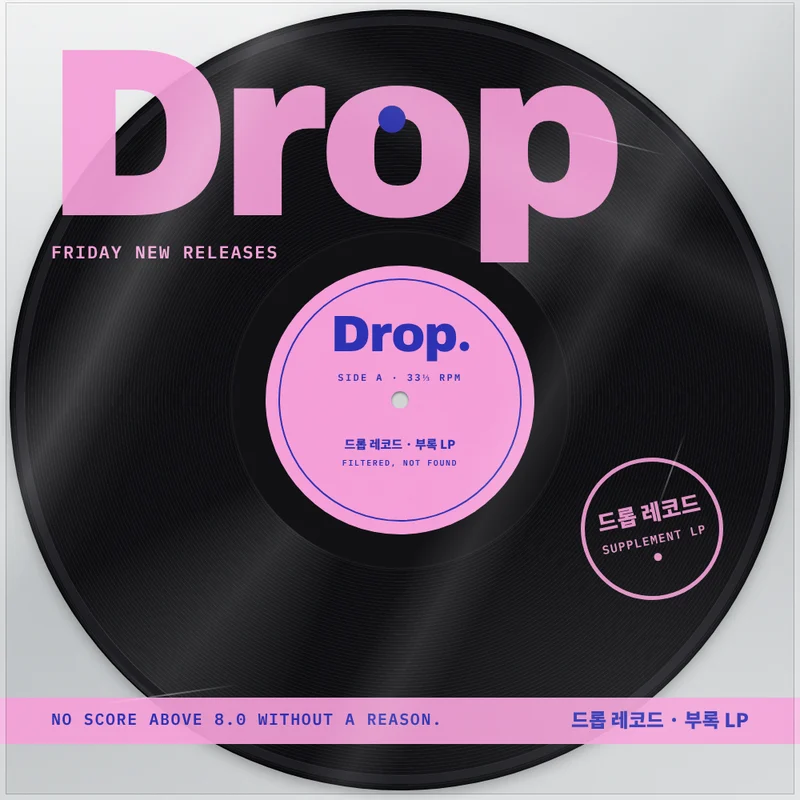
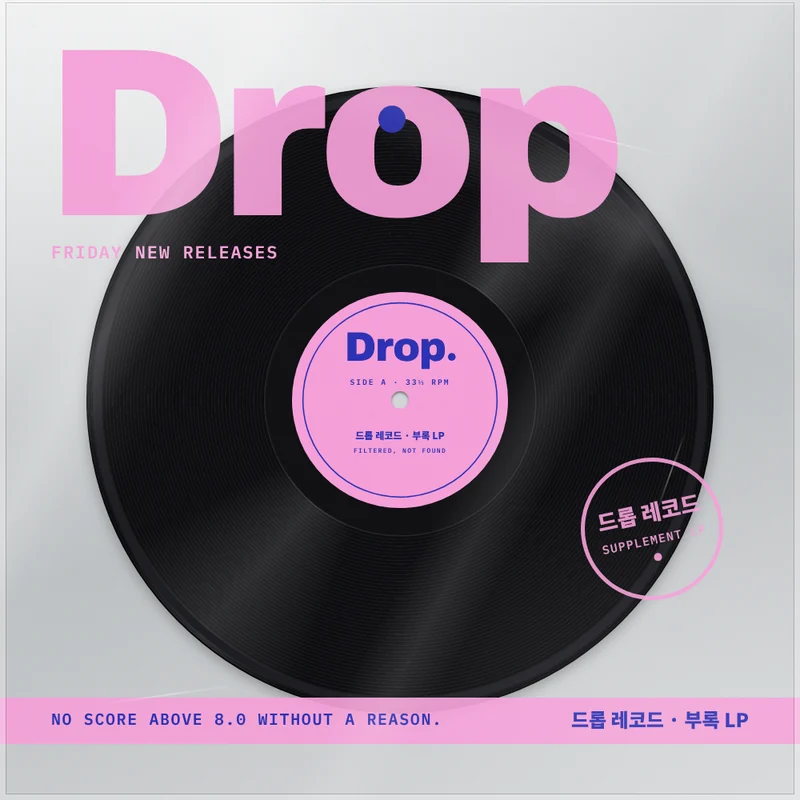
MAG: 부록 LP 커버 속 판을 작게(비율 유지)
Claude-Session: https://claude.ai/code/session_016AQsQaxvrnr7CjSnaYCHYt

diff --git a/scripts/mag-sleeves.html b/scripts/mag-sleeves.html
@@ -9,15 +9,16 @@ html,body{width:1000px;height:1000px;overflow:hidden;background:transparent}
   radial-gradient(140% 90% at 20% 0%,rgba(255,255,255,.55),transparent 60%),
   linear-gradient(160deg,#e3e5e6,#b9bdc0 55%,#d6d8da)}
 /* 판 */
-.rec{position:absolute;left:14px;top:14px;width:972px;height:972px;border-radius:50%;
+.rec{position:absolute;left:110px;top:110px;width:780px;height:780px;border-radius:50%;
   background:
    conic-gradient(from 20deg,rgba(255,255,255,0) 0deg,rgba(255,255,255,.16) 18deg,rgba(255,255,255,0) 40deg,rgba(255,255,255,0) 180deg,rgba(255,255,255,.12) 200deg,rgba(255,255,255,0) 222deg),
    repeating-radial-gradient(circle at 50% 50%,#0d0d10 0 2px,#16161a 2px 3.2px,#0b0b0d 3.2px 4.4px),
    #0c0c0f;
   box-shadow:0 0 0 2px #050506,0 6px 18px rgba(0,0,0,.35)}
 .rec::after{content:"";position:absolute;inset:6px;border-radius:50%;box-shadow:inset 0 0 0 10px #1c1c21,inset 0 0 0 11px rgba(255,255,255,.08)}
-.run{position:absolute;left:50%;top:50%;width:420px;height:420px;margin:-210px 0 0 -210px;border-radius:50%;background:#101013;box-shadow:0 0 0 2px rgba(255,255,255,.06)}
-.lab{position:absolute;left:50%;top:50%;width:336px;height:336px;margin:-168px 0 0 -168px;border-radius:50%;overflow:hidden}
+.run{position:absolute;left:50%;top:50%;width:337px;height:337px;margin:-168.5px 0 0 -168.5px;border-radius:50%;background:#101013;box-shadow:0 0 0 2px rgba(255,255,255,.06)}
+.lab{position:absolute;left:50%;top:50%;width:270px;height:270px;margin:-135px 0 0 -135px;border-radius:50%;overflow:hidden}
+.lab>.in{position:absolute;left:0;top:0;width:336px;height:336px;transform:scale(.8036);transform-origin:0 0}
 .hole{position:absolute;left:50%;top:50%;width:22px;height:22px;margin:-11px 0 0 -11px;border-radius:50%;background:#cfd2d4;box-shadow:inset 0 2px 3px rgba(0,0,0,.5)}
 /* 비닐(PVC) 겉면 */
 .pvc{position:absolute;inset:0;pointer-events:none;
@@ -107,7 +108,7 @@ function print() {
     <div class="ink kr" style="right:60px;bottom:58px;text-align:right;font-size:30px;color:${C1};line-height:1.3">사이퍼 미디어<br><span class="mono" style="font-size:16px;color:#b0201e">SUPPLEMENT LP</span></div>
     <div class="ink mono" style="left:60px;bottom:60px;font-size:16px;color:#141414;line-height:1.6">01 / 08<br>NEXT IN THE CIRCLE</div>`; }
   return `
-    <div class="ink" style="left:14px;top:14px;width:972px;height:972px;border-radius:50%;background:conic-gradient(${C1} 0 120deg,transparent 120deg);opacity:.62"></div>
+    <div class="ink" style="left:110px;top:110px;width:780px;height:780px;border-radius:50%;background:conic-gradient(${C1} 0 120deg,transparent 120deg);opacity:.62"></div>
     <div class="ink" style="left:54px;top:30px;font:250px/1 'Archivo Black';color:#fff;letter-spacing:-.05em;opacity:.95">33⅓</div>
     <div class="ink mono" style="left:62px;top:280px;font-size:21px;color:#fff;opacity:.9">${SIG.day}</div>
     <div class="ink" style="left:0;right:0;bottom:0;height:150px;background:${C2};opacity:.82"></div>
@@ -119,7 +120,7 @@ if (part === 'label') {
   document.body.classList.add('L');
   S.innerHTML = `<div style="position:absolute;inset:0;border-radius:50%;overflow:hidden"><div style="position:absolute;left:50%;top:50%;width:336px;height:336px;margin:-168px 0 0 -168px;transform:scale(${600 / 336})">${label(336)}</div></div>`;
 } else {
-  S.innerHTML = `<div class="rec"><div class="run"></div><div class="lab">${label(336)}</div><div class="hole"></div></div>
+  S.innerHTML = `<div class="rec"><div class="run"></div><div class="lab"><div class="in">${label(336)}</div></div><div class="hole"></div></div>
    ${print()}<div class="grain"></div><div class="pvc"></div>
    <i class="crk" style="left:120px;top:880px;width:180px;transform:rotate(-8deg)"></i><i class="crk" style="left:700px;top:160px;width:140px;transform:rotate(14deg)"></i><i class="crk" style="left:820px;top:640px;width:110px;transform:rotate(-70deg)"></i>
    <div class="seam"></div>`;

diff --git a/public/sw.js b/public/sw.js
@@ -4,7 +4,7 @@
 // - 설치할 때 모든 앱 화면을 미리 받아 둔다. 한 번도 안 연 앱도 오프라인에서 열린다
 // - 글꼴·jsPDF는 따로 캐시해서 VERSION을 올려도 다시 받지 않는다. /api/ 는 건드리지 않는다
 // 공통 파일(theme.css, sabathia.js, today.js, apps.js)이나 여러 화면을 함께 고쳤으면 VERSION을 올린다
-const VERSION = 'sabathia-v33';
+const VERSION = 'sabathia-v34';
 const FONTS = 'sabathia-fonts-1';
 const CDN = 'sabathia-cdn-1';
 const KEEP = [VERSION, FONTS, CDN];
